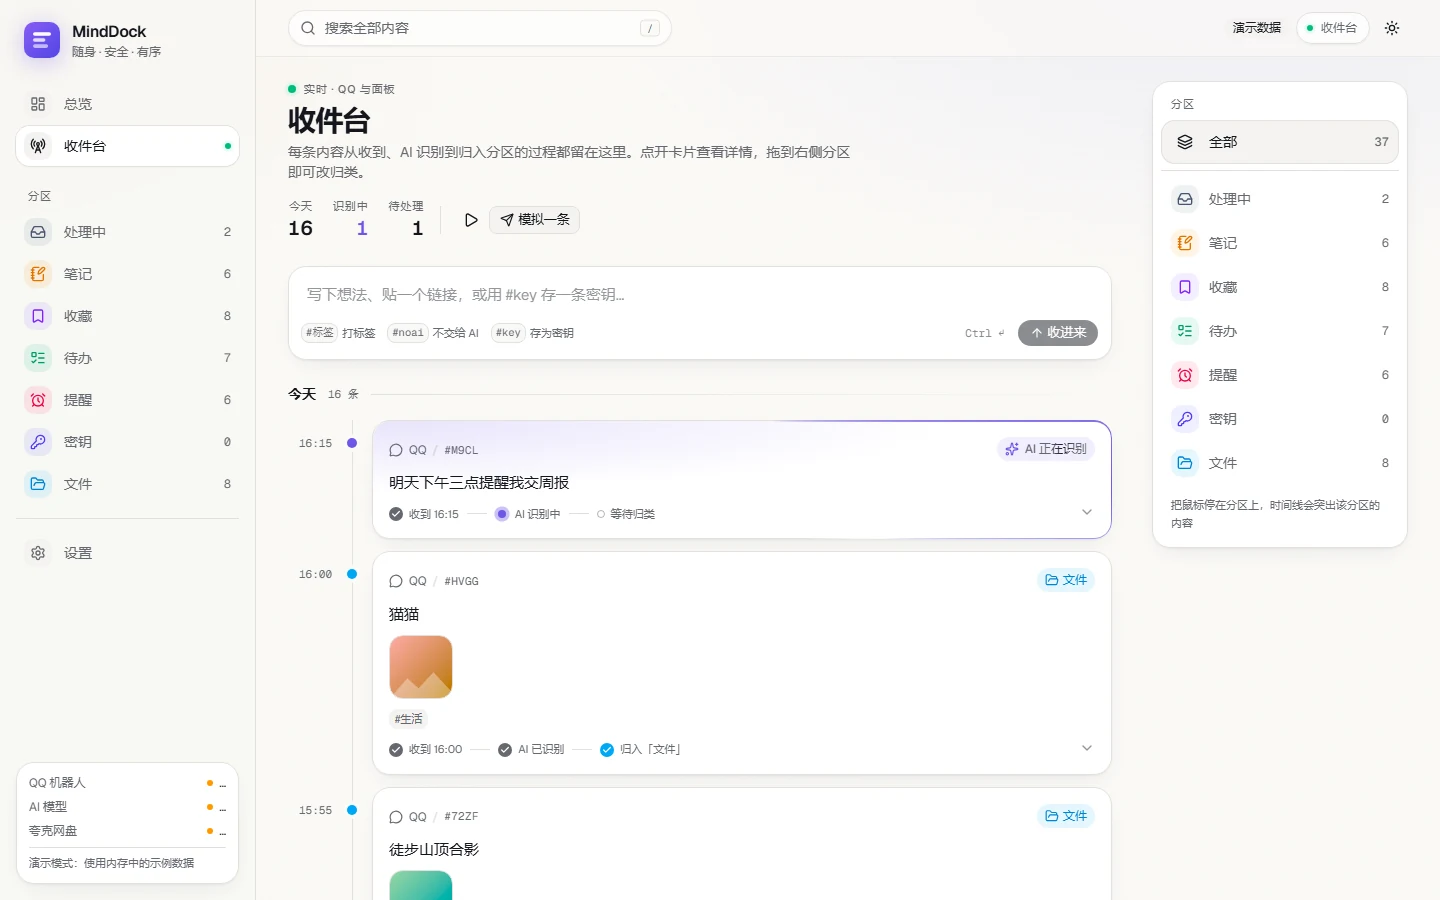
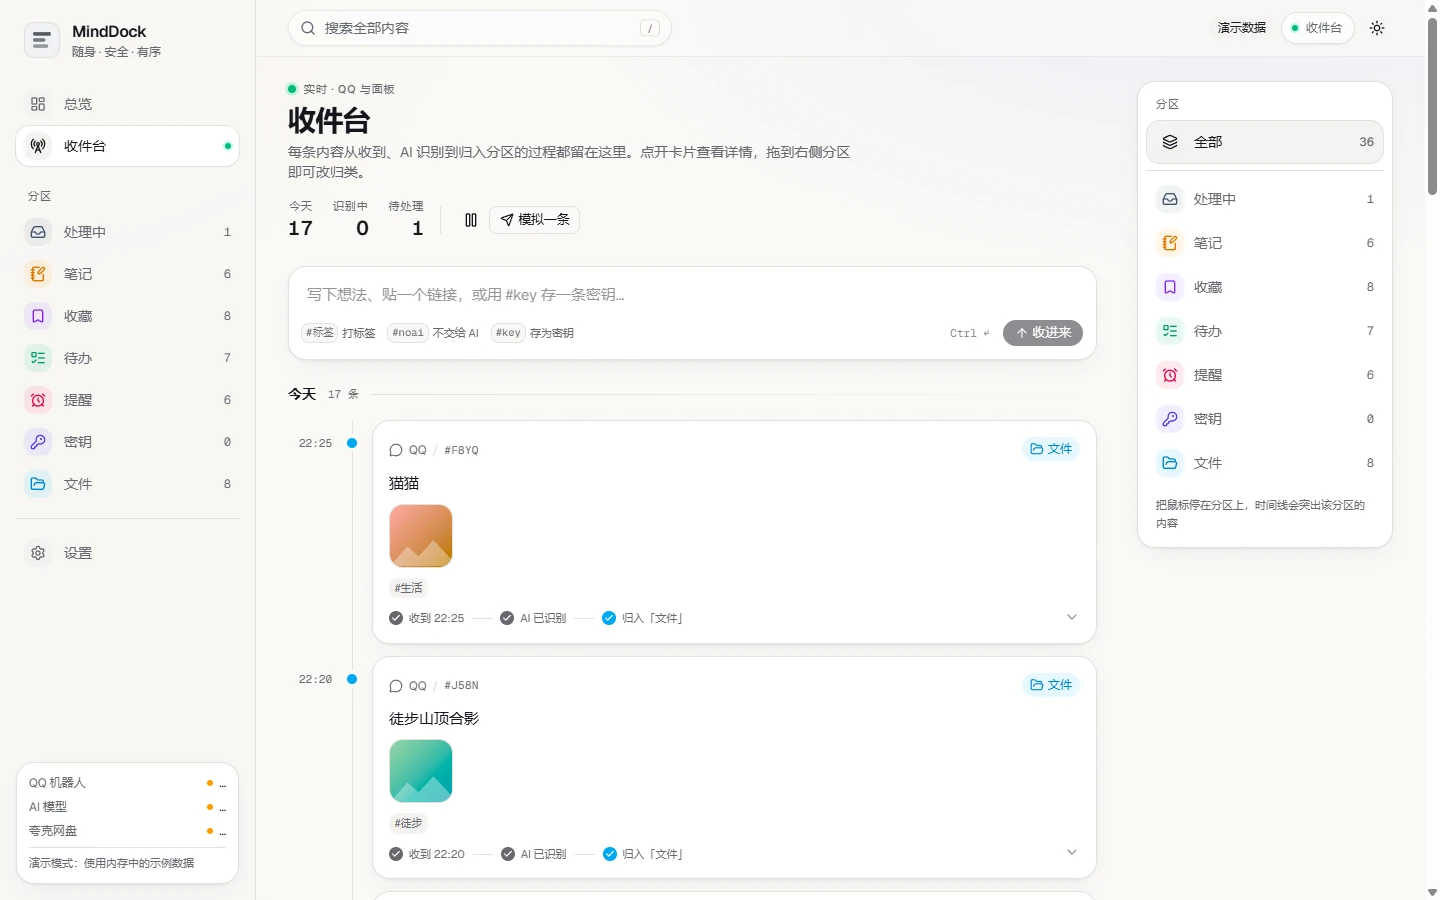
统一浅深色图标并更新项目介绍与截图

diff --git a/web/src/components/common.tsx b/web/src/components/common.tsx
@@ -1,24 +1,21 @@
 import { motion, useSpring, useTransform } from 'motion/react'
-import { useEffect, useId, type ComponentType, type ReactNode } from 'react'
+import { useEffect, type ComponentType, type ReactNode } from 'react'
 import { cn } from '@/lib/utils'
 import type { PartitionKey } from '@/api/types'
 import { PARTITION } from '@/lib/partitions'
+import { useTheme } from '@/lib/theme-context'
 
 export function Logo({ className }: { className?: string }) {
-  const id = useId()
+  const { resolvedTheme } = useTheme()
   return (
-    <svg viewBox="0 0 32 32" className={className} aria-hidden="true">
-      <defs>
-        <linearGradient id={id} x1="0" y1="0" x2="1" y2="1">
-          <stop offset="0" stopColor="#8b5cf6" />
-          <stop offset="1" stopColor="#4f46e5" />
-        </linearGradient>
-      </defs>
-      <rect width="32" height="32" rx="9" fill={`url(#${id})`} />
-      <rect x="8" y="9" width="16" height="3.2" rx="1.6" fill="#fff" />
-      <rect x="8" y="14.4" width="11" height="3.2" rx="1.6" fill="#fff" opacity=".8" />
-      <rect x="8" y="19.8" width="13.5" height="3.2" rx="1.6" fill="#fff" opacity=".6" />
-    </svg>
+    <img
+      src={resolvedTheme === 'dark' ? '/favicon-dark.svg' : '/favicon.svg'}
+      width={32}
+      height={32}
+      className={cn('shrink-0', className)}
+      alt=""
+      aria-hidden="true"
+    />
   )
 }
 

diff --git a/web/src/pages/auth/AuthLayout.tsx b/web/src/pages/auth/AuthLayout.tsx
@@ -3,12 +3,8 @@ import { Logo } from '@/components/common'
 
 export function AuthLayout({ title, subtitle, children }: { title: string; subtitle: string; children: ReactNode }) {
   return (
-    <div className="relative flex min-h-svh items-center justify-center overflow-hidden bg-background px-4 py-10">
-      <div
-        aria-hidden="true"
-        className="pointer-events-none absolute -top-40 left-1/2 size-[36rem] -translate-x-1/2 rounded-full bg-gradient-to-br from-violet-500/20 via-indigo-500/10 to-transparent blur-3xl"
-      />
-      <div className="relative w-full max-w-sm">
+    <div className="flex min-h-svh items-center justify-center bg-background px-4 py-10">
+      <div className="w-full max-w-sm">
         <div className="mb-6 flex flex-col items-center gap-3 text-center">
           <Logo className="size-12" />
           <div>

diff --git a/web/src/components/layout/AppShell.tsx b/web/src/components/layout/AppShell.tsx
@@ -81,7 +81,7 @@ function SidebarContent({ onNavigate }: { onNavigate?: () => void }) {
     <LayoutGroup id={onNavigate ? 'sheet-nav' : 'side-nav'}>
       <div className="flex h-full flex-col gap-6 overflow-y-auto p-4">
         <Link to="/" onClick={onNavigate} className="flex items-center gap-3 px-2 pt-1">
-          <Logo className="size-9 drop-shadow-[0_4px_12px_oklch(0.56_0.21_285/0.35)]" />
+          <Logo className="size-9" />
           <span>
             <span className="block font-semibold tracking-tight">MindDock</span>
             <span className="block text-xs text-muted-foreground">随身 · 安全 · 有序</span>

diff --git a/web/index.html b/web/index.html
@@ -2,7 +2,8 @@
 <html lang="zh-CN">
   <head>
     <meta charset="UTF-8" />
-    <link rel="icon" type="image/svg+xml" href="/favicon.svg" />
+    <link rel="icon" type="image/svg+xml" href="/favicon.svg" media="(prefers-color-scheme: light)" />
+    <link rel="icon" type="image/svg+xml" href="/favicon-dark.svg" media="(prefers-color-scheme: dark)" />
     <meta name="viewport" content="width=device-width, initial-scale=1.0, viewport-fit=cover" />
     <meta name="description" content="MindDock：随身、安全、分门别类的第二大脑" />
     <meta name="theme-color" content="#ffffff" media="(prefers-color-scheme: light)" />
